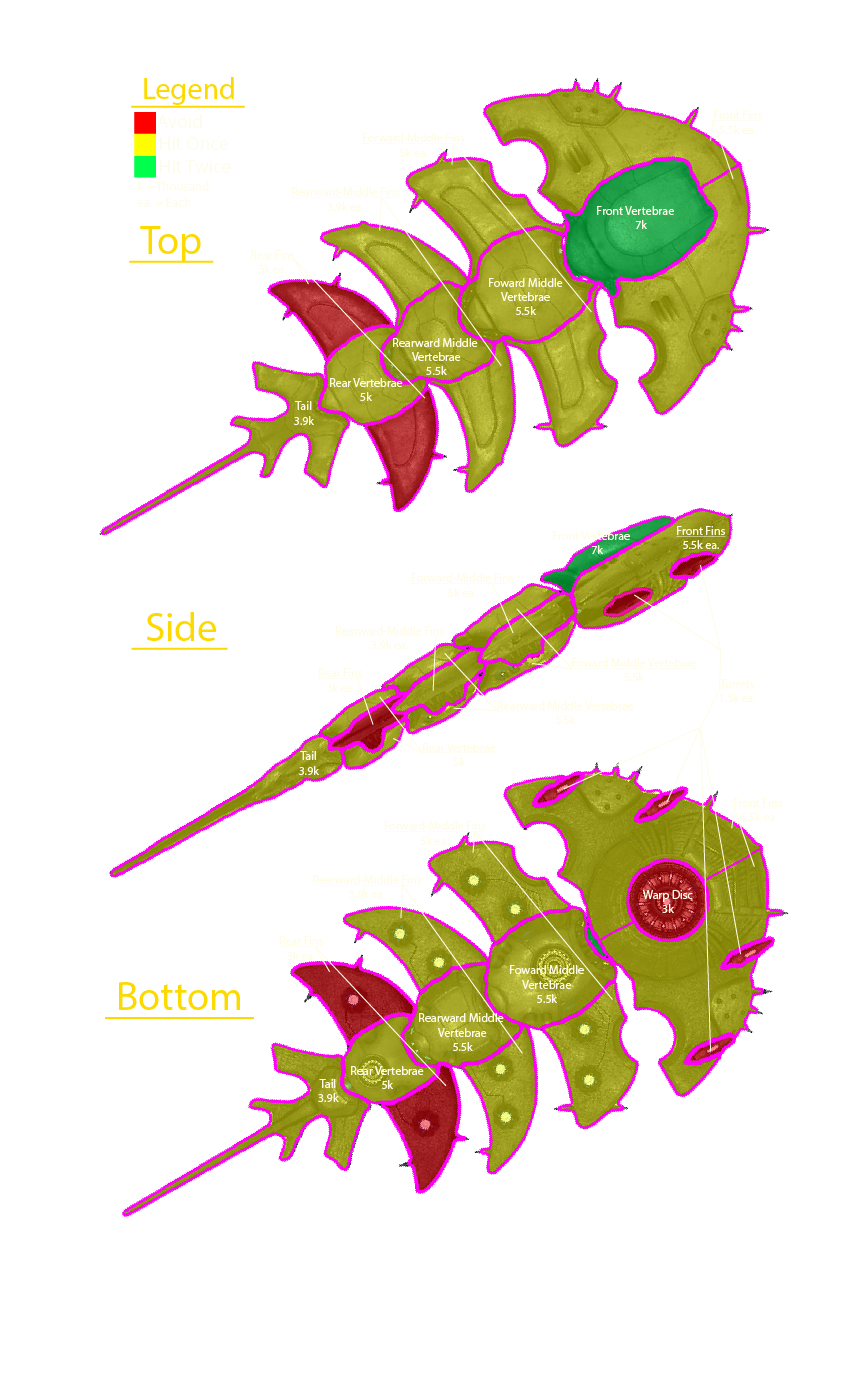
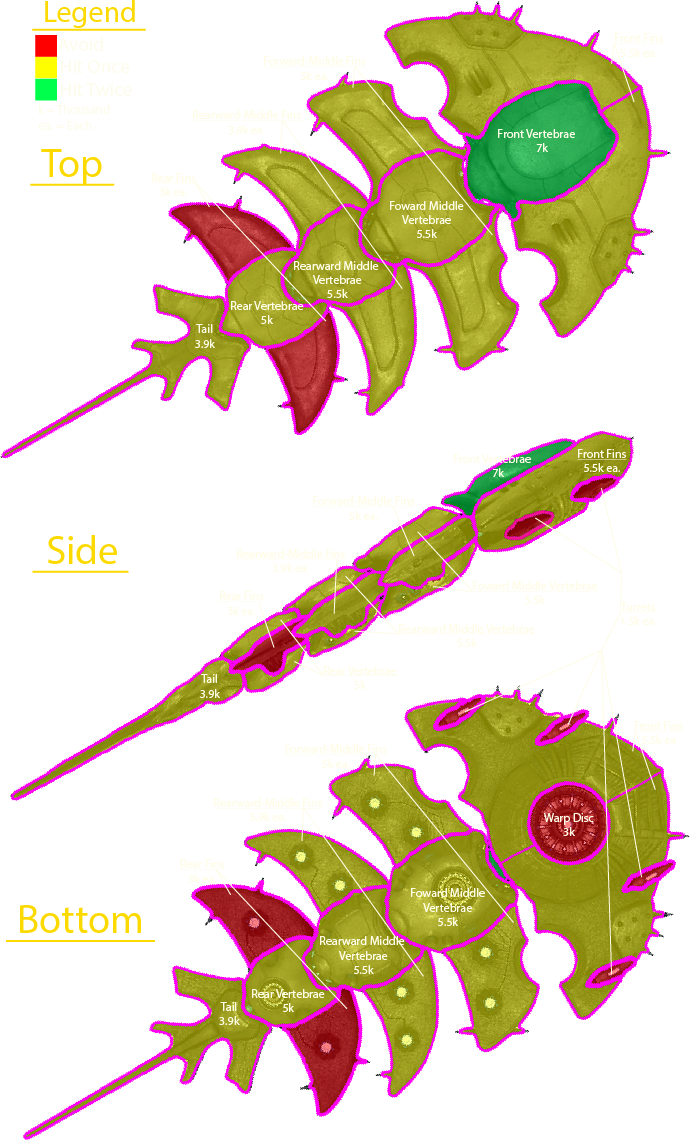
color formating and gauge on levi sections

diff --git a/roles/gunner/index.html b/roles/gunner/index.html
@@ -21,62 +21,69 @@
         
         <p class="title">Gunner(WIP)</p>
       
-        <p class="text">If any role is at the center of MoW, it is the Gunner. You direct the power of the RR to take down Leviathans. 
+        <p class="text">If any role is at the center of MoW, it is the <span class="Teammate-Green">Gunner</span>. You direct the power of the <span class="Support-Blue"> RR</span> to take down Leviathans. 
             This frees the team from the oppressive area denial effect of these superheavy units. 
-            You are equipped to take hits like a beast, and your shield generator pack is critical to protecting the FRV.</p>
+            You are equipped to take hits like a beast, and your Shield Generator Pack is critical to protecting the <span class="Driver-Purple">FRV</span>.</p>
         
+            <div> <!--SOPS-->
         <p class="subtitle"> Standard Operating Procedures</p>
 
         <p class="subtitle-2">Load In</p>
-        <p class="text">Call Shield Generator Pack and Recoilless Rifle (RR) Equip only RR (leave pack for Spotter).[appx. 5]</p>
+        <p class="short-text">Call Shield Generator Pack and <span class="Support-Blue">Recoilless Rifle</span> 
+            (<span class="Support-Blue">RR</span>) Equip only <span class="Support-Blue">RR</span> (leave pack for <span class="Teammate-Green">Spotter</span>).[appx. 5]</p>
 
         <p class="subtitle-2">Transit</p>
-        <p class="text">Keep the Heavy Machine Gun (HMG) pointed rear of  FRV. Notify Driver when reloading last magazine.</p>
+        <p class="short-text">Keep the <span class="Driver-Purple">Heavy Machine Gun</span> (<span class="Driver-Purple">HMG</span>) pointed rear of  <span class="Driver-Purple">FRV</span>. Notify <span class="Driver-Purple">Driver</span> when reloading last magazine.</p>
 
         <p class="subtitle-2">Objectives</p>
-        <p class="text">Use HMG for fire support on approach. Take a central position with Spotter and alternate shield relays. 
+        <p class="short-text">Use <span class="Driver-Purple">HMG</span> for fire support on approach. Take a central position with <span class="Teammate-Green">Spotter</span> and alternate shield relays. 
             Be ready to engage Leviathans (see Takedown).[appx. 6.3]
         </p>
 
         <p class="subtitle-2">Outpost</p>
-        <p class="video-text" style="overflow: auto;"><iframe class="sop-video" src="https://www.youtube.com/embed/8yxNORH_Aro?si=30Ji0ajWSthXBtWM&amp;clip=Ugkxcl957sJTrDDhH7xg1bjf-mQSjmYOuyZ5&amp;clipt=EKzsBBj12gc"></iframe>
-            Follow specific directions from Driver.<br> Take out shields on Illuminate ships as directed by Driver. <br> Hold fire when Spotter leans to destroy the ship or hazards in the outpost.
+        <p class="video-text" style="overflow: auto;"><iframe class="sop-video" 
+            src="https://www.youtube.com/embed/8yxNORH_Aro?si=30Ji0ajWSthXBtWM&amp;clip=Ugkxcl957sJTrDDhH7xg1bjf-mQSjmYOuyZ5&amp;clipt=EKzsBBj12gc"></iframe>
+            Follow specific directions from <span class="Driver-Purple">Driver</span>.<br> Take out shields on Illuminate ships as directed by <span class="Driver-Purple">Driver</span>. 
+            <br> Hold fire when <span class="Teammate-Green">Spotter</span> leans to destroy the ship or hazards in the outpost.
         </p>
         
         
 
         <p class="subtitle-2">Takedown</p>
         <p class="video-text" style="overflow: auto;"><iframe class="sop-video" src="https://www.youtube.com/embed/8yxNORH_Aro?si=U01TVE7HkLvsxdy3&amp;clip=UgkxvqNeuq3z1-GEn0bNOkTyG8qxXi1KzjWL&amp;clipt=EPWbAxiK5QQ"></iframe>
-            When Spotter calls out Leviathan, confirm that you have visual.<br>
-            Dismount FRV with Spotter on their command.<br>
-            Follow Spotter to best line-of-sight to Leviathan (usually near relay beam).<br>
+            When<span class="Teammate-Green"> Spotter </span>calls out Leviathan, confirm that you have visual.<br>
+            Dismount <span class="Driver-Purple">FRV</span> with<span class="Teammate-Green"> Spotter </span>on their command.<br>
+            Follow<span class="Teammate-Green"> Spotter </span>to best line-of-sight to Leviathan (usually near relay beam).<br>
             Throw a (Stun) grenade and QUICKLY clear the shield relay area of chaff (if any).<br>
-            Clearly say: “ENGAGING LEVIATHAN” and take the first shot.<br>
-            STAND STILL with RR EQUIPPED and await Spotter reload.
+            Clearly say: “<span class="Democracy-Yellow">ENGAGING LEVIATHAN</span>” and take the first shot.<br>
+            STAND STILL with <span class="Support-Blue">RR</span> EQUIPPED and await<span class="Teammate-Green"> Spotter </span>reload.
             Fire upon Leviathan until it is destroyed.<br><br>
             If Leviathan flies behind cover, pursue if possible. 
-            Move to a position where you can engage again. Spotter will follow.
-            When the Spotter’s shield relay goes down, throw down your own.
-            If Spotter says, “BREAK”  Throw a (Stun) grenade and engage nearby hostiles until safe.<br><br>
-            If Security says, “LEAVE”, disengage from the hostile forces.
-            Spotter will determine if the Gunner will mount FRV or COMMIT. [appx. 6.1, 6.3, 6.4, 7]
+            Move to a position where you can engage again.<span class="Teammate-Green"> Spotter </span>will follow.
+            When the <span class="Teammate-Green">Spotter&rsquo;s</span> shield relay goes down, throw down your own.
+            If<span class="Teammate-Green"> Spotter </span>says, “<span class="Democracy-Yellow">BREAK</span>”, throw a (Stun) grenade and engage nearby hostiles until safe.<br><br>
+            If Security says, “<span class="Democracy-Yellow">LEAVE</span>”, disengage from the hostile forces.
+            <span class="Teammate-Green"> Spotter </span>will determine if the Gunner will mount <span class="Driver-Purple">FRV</span> or COMMIT. When the Leviathan is vanquished, say: “<span class="Democracy-Yellow">DOWN</span>”. 
+            Keep a running total if you like!<br>[appx. 6.1, 6.3, 6.4, 7]
         </p>
+        </div>
 
+        <div><!-- LOADOUTS-->
         <p class="subtitle">Loadout</p>
 
         <p class="subtitle-2">Primary Options</p>
             <p class="subtitle-3">1. Explosive Crossbow</p>
-            <p class="loadout"><img src="/Meals-on-Wheels/images/Loadout/primary/CB-9_Exploding_Crossbow_Primary_Weaponry.png">
-                <span class="desktop-text">Good chaff clear. Can Flip FRV <br>
+            <p class="loadout"><img class="outline-img" src="/Meals-on-Wheels/images/Loadout/primary/CB-9_Exploding_Crossbow_Primary_Weaponry.png">
+                <span class="desktop-text">Good chaff clear. Can Flip <span class="Driver-Purple">FRV</span> <br>
                     Can destroy Ships and Lightning Spires<br> 
                     Targets: Voteless Horde, Overseers, Fleshmobs</span>
-                <span class="mobile-text">Good chaff clear. Can Flip FRV <br>
+                <span class="mobile-text">Good chaff clear. Can Flip <span class="Driver-Purple">FRV</span> <br>
                     Can destroy Ships and Lightning Spires<br> 
                     Targets: Voteless Horde, Overseers, Fleshmobs</span>
             </p>
 
             <p class="subtitle-3">2. Purifier</p>
-            <p class="loadout"><img src="/Meals-on-Wheels/images/Loadout/primary/PLAS-101_Purifier_Primary_Weaponry.png">
+            <p class="loadout"><img class="outline-img" src="/Meals-on-Wheels/images/Loadout/primary/PLAS-101_Purifier_Primary_Weaponry.png">
                 <span class="desktop-text">Very large AOE. Good ammo economy<br>
                     Alternative(s): Punisher Plasma<br>
                     Targets: Voteless, Watchers, Overseers, Fleshmobs<br>
@@ -89,30 +96,31 @@
             </p>
             
             <p class="subtitle-3">3. Liberator/ Liberator Carbine</p>
-            <p class="loadout"><img src="/Meals-on-Wheels/images/Loadout/primary/AR-23_Liberator_Primary_Weaponry.png">
+            <p class="loadout"><img class="outline-img" src="/Meals-on-Wheels/images/Loadout/primary/AR-23_Liberator_Primary_Weaponry.png">
                 <span class="desktop-text">Good all-arounder, Carbine consumes ammo quickly <br>
                     Alternative(s): Tenderizer, Breaker S&P<br>
-                    Targets: Voteless, Overseers, Watchers <br>
-                    Tenderizer is better for Overseers, worse for Voteless</span>
+                    Tenderizer is better for Overseers, worse for Voteless<br>
+                    Targets: Voteless, Overseers, Watchers</span>
                 <span class="mobile-text">Good all-arounder, Carbine consumes ammo quickly <br>
                     Alternative(s): Tenderizer, Breaker S&P<br>
-                    Targets: Voteless, Overseers, Watchers <br>
-                    Tenderizer is better for Overseers, worse for Voteless</span>
+                    Tenderizer is better for Overseers, worse for Voteless<br>
+                    Targets: Voteless, Overseers, Watchers
+                    </span>
             </p>
 
         <p class="subtitle-2">Secondary Options</p>
             <p class="subtitle-3">1. Talon</p>
-            <p class="loadout"><img src="/Meals-on-Wheels/images/Loadout/secondary/LAS-58_Talon_Secondary_Weaponry.png">
-                <span class="desktop-text">Good chaff clear. Can Flip FRV <br>
+            <p class="loadout"><img class="outline-img" src="/Meals-on-Wheels/images/Loadout/secondary/LAS-58_Talon_Secondary_Weaponry.png">
+                <span class="desktop-text">Good chaff clear. Can Flip <span class="Driver-Purple">FRV</span> <br>
                     Can destroy Ships and Lightning Spires<br> 
                     Targets: Voteless Horde, Overseers, Fleshmobs</span>
-                <span class="mobile-text">Good chaff clear. Can Flip FRV <br>
+                <span class="mobile-text">Good chaff clear. Can Flip <span class="Driver-Purple">FRV</span> <br>
                     Can destroy Ships and Lightning Spires<br> 
                     Targets: Voteless Horde, Overseers, Fleshmobs</span>
             </p>
 
             <p class="subtitle-3">2. Verdict</p>
-            <p class="loadout"><img src="/Meals-on-Wheels/images/Loadout/secondary/P-113_Verdict_Secondary_Weaponry.png">
+            <p class="loadout"><img class="outline-img" src="/Meals-on-Wheels/images/Loadout/secondary/P-113_Verdict_Secondary_Weaponry.png">
                 <span class="desktop-text">Very large AOE. Good ammo economy<br>
                     Alternative(s): Punisher Plasma<br>
                     Targets: Voteless, Watchers, Overseers, Fleshmobs<br>
@@ -125,7 +133,7 @@
             </p>
             
             <p class="subtitle-3">3. Peacemaker</p>
-            <p class="loadout"><img src="/Meals-on-Wheels/images/Loadout/secondary/P-2_Peacemaker_Secondary_Weaponry.png">
+            <p class="loadout"><img class="outline-img" src="/Meals-on-Wheels/images/Loadout/secondary/P-2_Peacemaker_Secondary_Weaponry.png">
                 <span class="desktop-text">Good all-arounder, Carbine consumes ammo quickly <br>
                     Alternative(s): Tenderizer, Breaker S&P<br>
                     Targets: Voteless, Overseers, Watchers <br>
@@ -138,17 +146,17 @@
 
         <p class="subtitle-2">Grenade Options</p>
             <p class="subtitle-3">1. Stun</p>
-            <p class="loadout"><img src="/Meals-on-Wheels/images/Loadout/grenade/G-23_Stun_Throwable_Weaponry.png">
-                <span class="desktop-text">Good chaff clear. Can Flip FRV <br>
+            <p class="loadout"><img class="outline-img" src="/Meals-on-Wheels/images/Loadout/grenade/G-23_Stun_Throwable_Weaponry.png">
+                <span class="desktop-text">Good chaff clear. Can Flip <span class="Driver-Purple">FRV</span> <br>
                     Can destroy Ships and Lightning Spires<br> 
                     Targets: Voteless Horde, Overseers, Fleshmobs</span>
-                <span class="mobile-text">Good chaff clear. Can Flip FRV <br>
+                <span class="mobile-text">Good chaff clear. Can Flip <span class="Driver-Purple">FRV</span> <br>
                     Can destroy Ships and Lightning Spires<br> 
                     Targets: Voteless Horde, Overseers, Fleshmobs</span>
             </p>
 
             <p class="subtitle-3">2. Gas</p>
-            <p class="loadout"><img src="/Meals-on-Wheels/images/Loadout/grenade/G-4_Gas_Throwable_Icon.png">
+            <p class="loadout"><img class="outline-img" src="/Meals-on-Wheels/images/Loadout/grenade/G-4_Gas_Throwable_Icon.png">
                 <span class="desktop-text">Very large AOE. Good ammo economy<br>
                     Alternative(s): Punisher Plasma<br>
                     Targets: Voteless, Watchers, Overseers, Fleshmobs<br>
@@ -161,7 +169,7 @@
             </p>
             
             <p class="subtitle-3">3. Frag</p>
-            <p class="loadout"><img src="/Meals-on-Wheels/images/Loadout/grenade/G-6_Frag_Throwable_Weaponry.png">
+            <p class="loadout"><img class="outline-img" src="/Meals-on-Wheels/images/Loadout/grenade/G-6_Frag_Throwable_Weaponry.png">
                 <span class="desktop-text">Good all-arounder, Carbine consumes ammo quickly <br>
                     Alternative(s): Tenderizer, Breaker S&P<br>
                     Targets: Voteless, Overseers, Watchers <br>
@@ -174,7 +182,7 @@
 
         <p class="subtitle-2">Armor</p>
             <p class="subtitle-3">Passive</p>
-            <p class="loadout"><img style="outline-color:#fefce7 ;" class="outline-img" src="/Meals-on-Wheels/images/Loadout/passive/Fortified_Armor_Passive_Icon.png">
+            <p class="loadout"><img class="outline-img-white" src="/Meals-on-Wheels/images/Loadout/passive/Fortified_Armor_Passive_Icon.png">
                 <span class="desktop-text">Very large AOE. Good ammo economy<br>
                     Alternative(s): Punisher Plasma<br>
                     Targets: Voteless, Watchers, Overseers, Fleshmobs<br>
@@ -263,7 +271,7 @@
                     Targets: Voteless, Watchers, Overseers, Fleshmobs.<br>
                     Stun Targets: Harvesters</span>
             </p>
-
+        </div>
 
            
         <p class="text" style="margin-bottom:0;">Thanks for your interest in our strategy, have fun!</p>

diff --git a/roles/whaling-team/index.html b/roles/whaling-team/index.html
@@ -30,6 +30,7 @@
             The Whaling Team will determine the threat level of Leviathans and when to engage them. 
             They pave the way for the squad and remove this threat from the skies.
         </p>
+        
 
         <p class="subtitle">Leviathan(WIP)</p>
         <p class="levi-info"><img src="/Meals-on-Wheels/images/levi map.png">Let&rsquo;s get one thing straight -- Leviathans have no weak points, the only way to kill them is to deal 15,000 (15k) damage. 
@@ -47,6 +48,25 @@
             A 5 shot takedown will empty the Spotter&rsquo;s pack and leave the RR loaded. 
             The Spotter is able to refill his pack fully from a stratagem resupply, which is more efficient than using the supply pack. [appx. 2.4, 7]
         </p>
+        <div class="break"></div>
+        <p class="levi-info" ><img src="/Meals-on-Wheels/images/gauge.png">
+            The image right is the threat level gauge for a Leviathan, showing danger based on its distance and relevance. 
+            It ranges from Low (safe, far away, or moving away) to Severe (very close, moving into area of operation and dangerous).
+            The needle points to High, meaning it&rsquo;s time to “ENGAGE!” </p>
+
+        <div class="break"></div>
+
+        <p class="text">If the Leviathan is flying directly towards you or directly away from you, do not attempt to hit different parts. 
+            Simply hit the same part until it breaks and target the main body. This will normally result in a 6 shot takedown.<br>
+            While under pressure, it is common to forget which part you have already hit. You can use the back fins as
+            an indicator in this situation. While losing out slightly on damage, if they have not been broken, you know
+            that they haven&rsquo;t already been hit.<br>
+            When the Leviathan is at long ranges, it is best to use the AT emplacement, but if using the RR try to hit
+            the Leviathan in the same part until it falls. It will help reduce missed shots by going for different parts.<br>
+            When Leviathan is moving between buildings, just hit the visible parts. Often, buildings have larger
+            hitboxes than what is visible.<br>
+            The best way to takedown a leviathan in Transit is to intercept it. Learn to predict where the Leviathan will
+            be and deploy the Whaling Team there.</p>
 
         <div class="centered-box"> 
         
@@ -66,7 +86,7 @@
             </div>
          
         </div>
-        <p class="text" style="margin-bottom:0;">Thanks for your interest in our strategy, have fun!</p>
+        <p class="short-text" style="margin-bottom:0;">Thanks for your interest in our strategy, have fun!</p>
         
     </div>
 

diff --git a/index.html b/index.html
@@ -21,7 +21,7 @@
         
         <p class="title">Meals on Wheels</p>
       
-        <p class="text">Hosted below is our comprehensive PDF that will teach you how to run the Meals on Wheels strategy.
+        <p class="short-text">Hosted below is our comprehensive PDF that will teach you how to run the Meals on Wheels strategy.
         <br>Feel free to download and share with your friends! The sharable variant is recommended.</p>
             
         <a class="download-button-anchor"target="_self"href="https://raw.githubusercontent.com/Undeadender/Meals-on-Wheels/main/Meals%20on%20Wheels%20rev%201.3.1%20SH.pdf">
@@ -36,7 +36,7 @@
         src="https://drive.google.com/viewerng/viewer?embedded=true&url=https://raw.githubusercontent.com/Undeadender/Meals-on-Wheels/main/Meals%20on%20Wheels%20rev%201.3.1%20SH.pdf#toolbar=0&scrollbar=0&view=FitW"
         ></iframe>
         
-        <p class="text">There are several links in the document that will send you to specific clips in the Meals on Wheels Video Companion.
+        <p class="short-text">There are several links in the document that will send you to specific clips in the Meals on Wheels Video Companion.
         <br>Embedded below is the video in it's entirety.
         <br>If you're new to the strategy, <span style="color:#fedb00">make sure to at least watch the first 3 minutes</span>, the rest is gameplay of MoW in action! </p>
         
@@ -44,7 +44,7 @@
             src="https://www.youtube.com/embed/8yxNORH_Aro"
         ></iframe>
         
-        <p class="text" style="margin-bottom:0;">Thanks for your interest in our strategy, have fun!</p>
+        <p class="short-text" style="margin-bottom:0;">Thanks for your interest in our strategy, have fun!</p>
         
     </div>
 

diff --git a/links/main.css b/links/main.css
@@ -93,7 +93,7 @@ body{
     outline:#fedb00 solid 10px;
     text-align: center;
     padding: 6%;
-    margin: 0;
+    margin-top: .1em;
     font-size: 5em;
     color: #fedb00;
     line-height: 1;
@@ -110,8 +110,7 @@ body{
     background: 100% url('../images/backgroudHQ.png');
     outline:#fedb00 solid 3px;
     text-align: center;
-    padding-top: 4%;
-    padding-bottom: 2%;
+    padding: 3%;
     margin: 0;
     font-size: 2.5em;
     color: #fedb00;
@@ -151,9 +150,22 @@ body{
 }
 .text{
     margin: 3% auto;
-    width: 70%;
+    width: 80%;
+    text-align: left;
+    padding: 1%;
+    clear: both;
+}
+.short-text{
+    margin: 3% auto;
+    width: 80%;
     text-align: center;
     padding: 1%;
+    clear: both;
+}
+
+.break {
+    border: solid #fedb00 3px;
+    border-width: 0 0 3px 0; 
     clear: both;
 }
 
@@ -163,6 +175,16 @@ body{
 .desktop-text {
     display: inline;
 }
+
+/* TEXT Colors*/
+.Accent-White {color:#fefce7 ;}
+.Airstrike-Red {color:#c9442d ;}
+.Support-Blue {color:#279ab6 ;}
+.Democracy-Yellow {color:#fedb00 ;}
+.Driver-Purple {color: #8052a1;}
+.Teammate-Green {color:#34865b ;}
+.Nav-Blue {color:#63c6c3 ;}
+
 
 .header {
     position: sticky;

diff --git a/links/roles.css b/links/roles.css
@@ -38,9 +38,14 @@
     gap: 10%;
 }
 
+.levi-info {
+    margin: 5%;
+    overflow: auto;
+}
+
 .levi-info img{
-    float:left;
-    width: 60%;
+    float:right;
+    width: 50%;
 }
 
 .loadout img{
@@ -48,12 +53,16 @@
     height: 15vw;
 }
 .outline-img{
-    outline: #fedb00 4px solid;
+    border: #fedb00 .5vw solid;
+}
+.outline-img-white{
+    border: #fefce7 .5vw solid;
 }
 .loadout {
     display: block;
     margin: auto;
     padding-left: 2%;
+    overflow: auto;
     
 }
 .sop-video {
@@ -67,7 +76,7 @@
 .video-text {
     margin: 3% auto;
     width: 90%;
-    text-align: center;
+    text-align: left;
     padding: 1%;
     clear: both;
 }

diff --git a/roles/index.html b/roles/index.html
@@ -46,7 +46,7 @@
         
     </div>
          
-        <p class="text" style="margin-bottom:0;">Thanks for your interest in our strategy, have fun!</p>
+        <p class="short-text" style="margin-bottom:0;">Thanks for your interest in our strategy, have fun!</p>
         
     </div>
 
